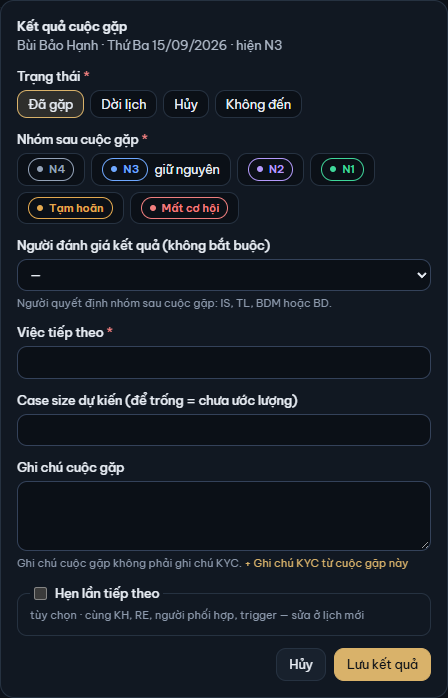
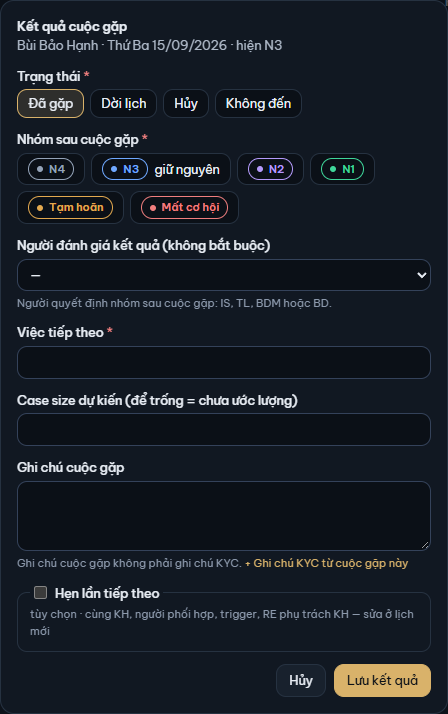
fix: keep the app header off the top of tall guide shots, reshoot the outcome dialog (T-247) (#626)

diff --git a/e2e/guide/shots.guide.ts b/e2e/guide/shots.guide.ts
@@ -25,6 +25,9 @@ async function shot(page: Page, name: string, part?: Locator | Clip) {
     path: join(IMG, `${name}.png`),
     animations: 'disabled',
     caret: 'hide',
+    // A part taller than the window makes Playwright scroll to it, and the sticky header of the
+    // app would then cover its top lines.
+    style: 'header.sticky { position: static !important; }',
   } as const;
   if (part && 'screenshot' in part) await part.screenshot(options);
   else await page.screenshot({ ...options, clip: part });
